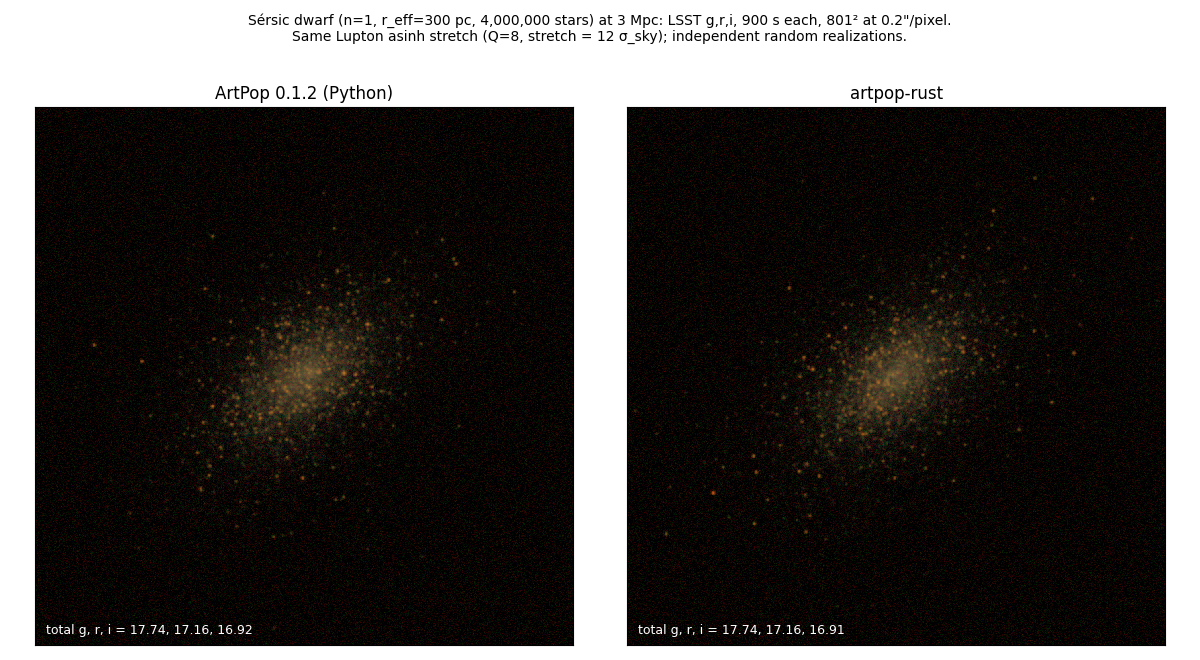
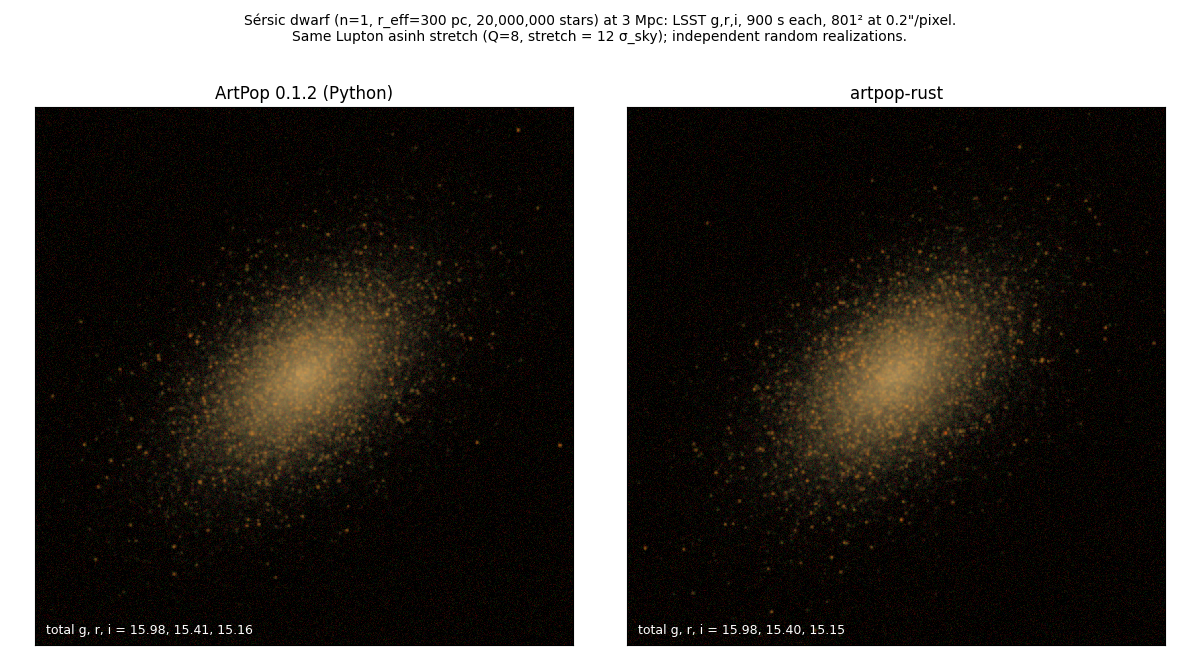
Side-by-side images: 20-million-star galaxy, measured shapes, native RGB render
The comparison galaxy now has 2e7 stars so the realization scatter of its
total light is near 1%; the noise-free panel reports half-light radius,
ellipticity, position angle, and centroid for both backends, and the same
Rust observations are also rendered with artpop-rust's own image.rgb.

Changed region(s): [[0.5242, 0.1515, 0.9558, 0.9697], [0.0308, 0.1515, 0.4933, 0.9697], [0.2158, 0.0, 0.8017, 0.0606]]

diff --git a/tools/side_by_side.py b/tools/side_by_side.py
@@ -5,12 +5,16 @@ streams), so the images are statistically equivalent rather than pixel-
 identical; every panel pair uses one display stretch computed from the
 ArtPop image and applied to both. Produces, in --out-dir:
 
-  side_by_side_rgb.png            new three-band (g, r, i) Sersic galaxy with detector
-                                  noise, composed with identical Lupton asinh parameters
-  side_by_side_sersic_ideal.png   801^2 noise-free Sersic image from the scale benchmark,
-                                  plus azimuthally averaged surface-brightness profiles
+  side_by_side_rgb.png            a 2e7-star Sersic galaxy: three-band (g, r, i) detector
+                                  images composed with identical Lupton asinh parameters
+  side_by_side_sersic_ideal.png   the same galaxy as a noise-free i-band image, with
+                                  azimuthally averaged surface-brightness profiles and
+                                  measured shape parameters
   side_by_side_plummer.png        2047^2 detector image of a Plummer cluster from the
                                   scale benchmark (central crop), plus radial profiles
+
+A galaxy of 2e7 stars keeps the realization scatter of the total light from
+bright giants near 1%, so the two independent realizations are visibly the same.
 
 Usage:
   python tools/side_by_side.py --rust-bin target/release/artpop-rust --out-dir docs/images \
@@ -32,7 +36,7 @@ DIM = 801
 PIXEL_SCALE = 0.2
 DISTANCE_MPC = 3.0
 R_EFF_PC = 300.0
-N_STARS = 4_000_000
+N_STARS = 20_000_000
 
 
 def reference_imports():
@@ -51,7 +55,9 @@ def python_rgb_images(np, artpop):
     src = artpop.SersicSP(ssp, r_eff=R_EFF_PC / 1000.0, n=1.0, theta=40, ellip=0.4, xy_dim=DIM, pixel_scale=PIXEL_SCALE)
     psf = artpop.moffat_psf(0.7, pixel_scale=PIXEL_SCALE, shape=41)
     imager = artpop.ArtImager("LSST", diameter=6.4, read_noise=4, random_state=12)
-    return {b: imager.observe(src, b, exptime=EXPTIME, sky_sb=SKY[b], psf=psf, zpt=27).image for b in BANDS}
+    images = {b: imager.observe(src, b, exptime=EXPTIME, sky_sb=SKY[b], psf=psf, zpt=27).image for b in BANDS}
+    images["ideal_i"] = artpop.IdealImager().observe(src, "LSST_i", psf=psf, zpt=27).image
+    return images
 
 
 class Rust:
@@ -86,7 +92,27 @@ def rust_rgb_images(np, binary, work):
         dest = cli.work / f"rust_{b}.fits"
         cli.invoke("artifact.export", artifact_id=obs, destination=str(dest), format="fits", plane="image", overwrite=True)
         images[b] = fits.getdata(dest).astype(float)
+    ideal = cli.artifact(cli.invoke("observe.ideal", source={"artifact_id": src}, bandpass="LSST_i", psf={"artifact_id": psf}, output_zpt=27), "observation")
+    dest = cli.work / "rust_ideal_i.fits"
+    cli.invoke("artifact.export", artifact_id=ideal, destination=str(dest), format="fits", plane="image", overwrite=True)
+    images["ideal_i"] = fits.getdata(dest).astype(float)
     return images
+
+
+def shape(np, img):
+    """Flux-weighted centroid, second-moment ellipticity and position angle, circular half-light radius."""
+    yy, xx = np.indices(img.shape)
+    f = img.sum()
+    xc, yc = (img * xx).sum() / f, (img * yy).sum() / f
+    mxx, myy, mxy = ((img * (xx - xc) ** 2).sum() / f, (img * (yy - yc) ** 2).sum() / f, (img * (xx - xc) * (yy - yc)).sum() / f)
+    pa = 0.5 * np.degrees(np.arctan2(2 * mxy, mxx - myy))
+    d = np.sqrt((0.5 * (mxx - myy)) ** 2 + mxy ** 2)
+    ellip = 1 - np.sqrt((0.5 * (mxx + myy) - d) / (0.5 * (mxx + myy) + d))
+    r = np.hypot(xx - xc, yy - yc).ravel()
+    o = np.argsort(r)
+    cum = np.cumsum(img.ravel()[o])
+    r50 = r[o][np.searchsorted(cum, 0.5 * cum[-1])]
+    return dict(mag=27 - 2.5 * np.log10(f), xc=xc, yc=yc, ellip=ellip, pa=pa, r50=r50 * PIXEL_SCALE)
 
 
 def radial_profile(np, img, zpt=27.0, pixel_scale=PIXEL_SCALE, nbins=60, rmax_pix=None):
@@ -144,27 +170,30 @@ def main():
     fig.savefig(args.out_dir / "side_by_side_rgb.png", dpi=100)
     plt.close(fig)
 
-    # ---- 2. Sersic ideal image from the scale benchmark (801^2, 1M stars, 41^2 Moffat PSF).
-    sersic = {k: fits.getdata(args.scale_dir / "sersic_ideal_1m" / b / "sample0" / "image.fits").astype(float) for k, b in [("py", "python"), ("rs", "rust")]}
+    # ---- 2. The same galaxy as a noise-free i-band image, with profiles and measured shapes.
+    sersic = {"py": py["ideal_i"], "rs": rs["ideal_i"]}
     vmin, vmax = np.percentile(sersic["py"], [0.5, 99.95])
     norm = ImageNormalize(vmin=vmin, vmax=vmax, stretch=AsinhStretch(0.02))
-    fig, axes = plt.subplots(1, 3, figsize=(16, 5.6), gridspec_kw={"width_ratios": [1, 1, 1.15]})
+    fig, axes = plt.subplots(1, 3, figsize=(16, 5.9), gridspec_kw={"width_ratios": [1, 1, 1.15]})
     for ax, key in zip(axes[:2], ["py", "rs"]):
         ax.imshow(sersic[key], origin="lower", cmap="gray_r", norm=norm, interpolation="nearest")
-        ax.set_title(f"{label[key]}: total mag {27 - 2.5 * np.log10(sersic[key].sum()):.3f}")
+        m = shape(np, sersic[key])
+        ax.set_title(label[key])
+        ax.text(0.02, 0.02, f"total i = {m['mag']:.3f}   r50 = {m['r50']:.2f}\"\ncenter = ({m['xc']:.1f}, {m['yc']:.1f})   e = {m['ellip']:.3f}   PA = {m['pa']:.1f}°", transform=ax.transAxes, fontsize=9, va="bottom")
         ax.set_xticks([])
         ax.set_yticks([])
     for key, color in [("py", "C0"), ("rs", "C3")]:
-        rr, mu, _ = radial_profile(np, sersic[key], nbins=80)
-        axes[2].plot(rr, mu, color=color, lw=1.6, label=label[key], alpha=0.85)
+        rr, mu, mean = radial_profile(np, sersic[key], nbins=80)
+        ok = mean > 0
+        axes[2].plot(rr[ok], mu[ok], color=color, lw=1.6, label=label[key], alpha=0.85)
     axes[2].invert_yaxis()
     axes[2].set_xlabel("radius [arcsec]")
     axes[2].set_ylabel("mean surface brightness [mag/arcsec²] (zpt 27)")
     axes[2].set_title("Azimuthally averaged profiles")
     axes[2].grid(alpha=0.3)
     axes[2].legend()
-    fig.suptitle("Benchmark workflow: 1M-star SSP → Sérsic source → 801² ideal image (41² Moffat PSF). Same asinh stretch; independent random realizations.", fontsize=10)
-    fig.tight_layout(rect=(0, 0, 1, 0.94))
+    fig.suptitle(f"The same {N_STARS:,}-star Sérsic dwarf (n=1, r_eff={R_EFF_PC:.0f} pc, e=0.4, PA=40°) at {DISTANCE_MPC:.0f} Mpc as a noise-free i-band image (41² Moffat PSF).\nSame asinh stretch; independent random realizations.", fontsize=10)
+    fig.tight_layout(rect=(0, 0, 1, 0.92))
     fig.savefig(args.out_dir / "side_by_side_sersic_ideal.png", dpi=100)
     plt.close(fig)
 

diff --git a/README.md b/README.md
@@ -61,15 +61,23 @@ The geometric-mean speedup is 9.9×, and peak memory was lower for Rust in every
 
 ## Side by side
 
-Equivalent galaxies from ArtPop 0.1.2 and artpop-rust, each pair shown with one display stretch. The two backends draw independent random realizations (rust-v1 has its own random streams), so individual stars and noise differ while the structure, totals, and profiles agree. Generated by [`tools/side_by_side.py`](tools/side_by_side.py) from the benchmark outputs plus a new three-band run.
+Equivalent galaxies from ArtPop 0.1.2 and artpop-rust, each pair shown with one display stretch. The two backends draw independent random realizations (rust-v1 has its own random streams), so individual stars and noise differ while structure, totals, and profiles agree; a galaxy of 20 million stars keeps the realization scatter of the total light near 1%. Generated by [`tools/side_by_side.py`](tools/side_by_side.py).
 
 ![Three-band Sérsic dwarf, LSST g,r,i detector images, ArtPop (left) and artpop-rust (right)](docs/images/side_by_side_rgb.png)
 
-A Sérsic dwarf (n = 1, r_eff = 300 pc, 4 million stars) at 3 Mpc in LSST g, r, i with 900 s exposures and detector noise, composed with identical Lupton asinh parameters. Total magnitudes agree to 0.01 mag.
+A Sérsic dwarf (n = 1, r_eff = 300 pc, ellipticity 0.4, 20 million stars) at 3 Mpc in LSST g, r, i with 900 s exposures and detector noise, composed with identical Lupton asinh parameters. Total magnitudes agree to 0.01 mag in every band.
 
-![Sérsic ideal image from the benchmark with azimuthally averaged profiles](docs/images/side_by_side_sersic_ideal.png)
+![The same galaxy as a noise-free image, with measured shapes and azimuthally averaged profiles](docs/images/side_by_side_sersic_ideal.png)
+
+The same galaxy as a noise-free i-band image. Measured on the images: half-light radius 16.28″ vs 16.44″, ellipticity 0.392 vs 0.398, position angle 39.8° vs 40.6°, centers within 0.3 pixel, totals 15.162 vs 15.148 mag; the surface-brightness profiles overlay out to the radius where the galaxy runs out of stars.
 
 ![Plummer cluster detector image from the benchmark with azimuthally averaged profiles](docs/images/side_by_side_plummer.png)
+
+The 2047² detector image of the scale benchmark (1 million-star Plummer cluster), central 60″.
+
+artpop-rust also renders images itself: `image.preview` writes percentile-clipped PNGs (linear, sqrt, log, or asinh stretch; gray, gray_r, viridis, magma, inferno), `image.rgb` makes Lupton asinh RGB composites, and `plot.render` writes SVG color-magnitude, HR, spatial, and IMF plots; all are exported with `artifact.export`. This is the galaxy above rendered by `image.rgb` from the three Rust observation artifacts:
+
+![The Rust galaxy rendered by artpop-rust's own image.rgb operation](docs/images/rust_native_rgb.png)
 
 ```bash
 python tools/side_by_side.py --rust-bin target/release/artpop-rust --out-dir docs/images --scale-dir /path/to/scale-benchmark-work-dir
